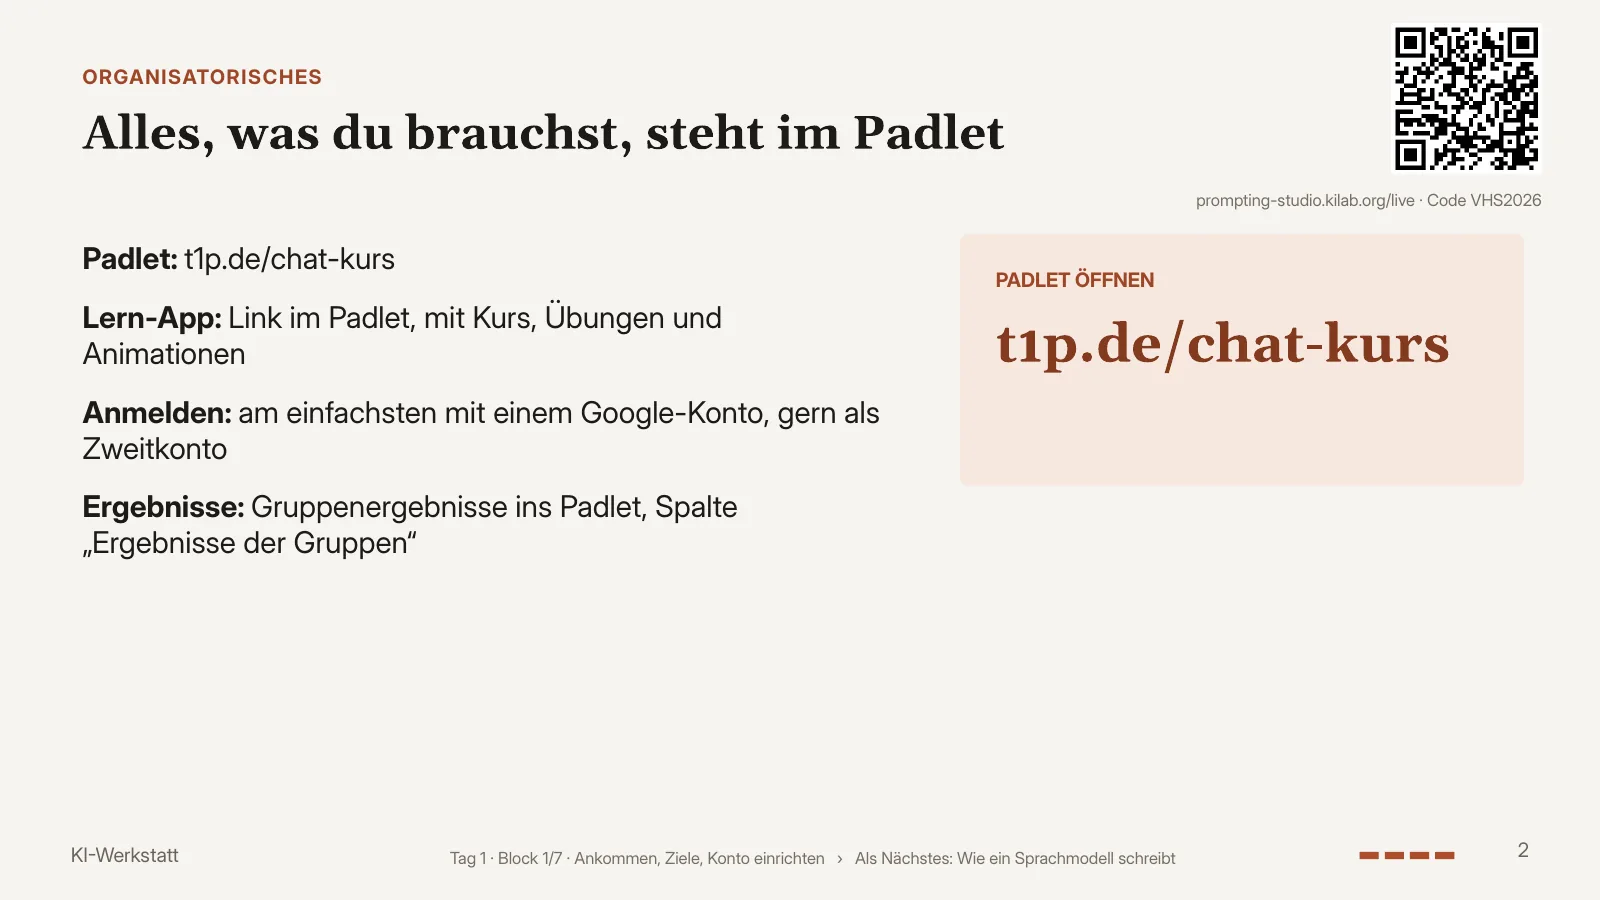
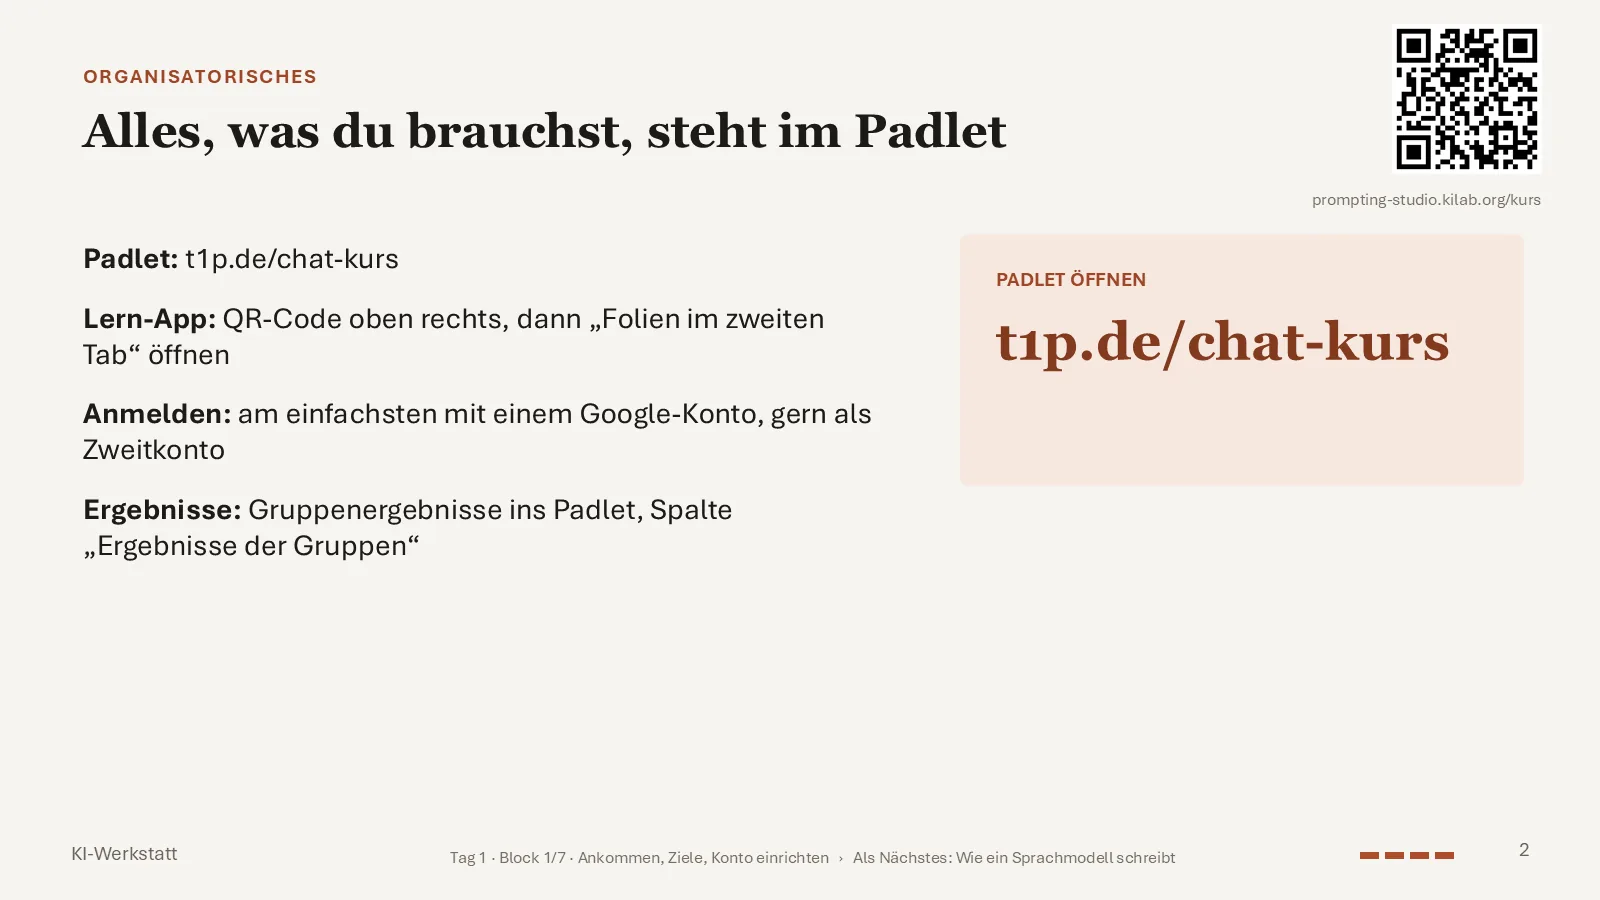
Kurs: Folie 2 ohne Live-Code, QR-Code auf /kurs (Folien v33)
Nach dem Entfernen des Live-Syncs für Teilnehmende zeigte Folie 2 noch
„prompting-studio.kilab.org/live · Code VHS2026“.

- Folie 2: „Lern-App: QR-Code oben rechts, dann „Folien im zweiten Tab“
  öffnen“; QR-Code und Adresse prompting-studio.kilab.org/kurs; Sprechernotiz
  erklärt die zwei Tabs.
- folien.py bauen: Folie mit Link /kurs bekommt die Adresse zum Abtippen statt
  /f/<nr>; Live-Code-Sonderfall entfernt.
- folien.py export: Datenteil als daten_schreiben(), damit einzelne Folien neu
  gerendert werden können.
- Bilder f02-*.webp über PowerPoint gerendert (echte Aptos), folien.json und
  folien-notizen.json auf v33.
- .claude/launch.json: Startkonfiguration des Dev-Servers für die Vorschau.

diff --git a/scripts/folien/folien.py b/scripts/folien/folien.py
@@ -326,19 +326,19 @@ def bauen(args):
     schritte = aufbau_fuer(prs, aufbau)
     basis = args.basis_url.rstrip("/")
     host = basis.split("://", 1)[-1]
-    code = fp["kursCode"]
     for nr, folie in enumerate(prs.slides, 1):
         dunkel = ist_dunkel(folie)
         grau = RGBColor(0xC9, 0xC2, 0xB8) if dunkel else RGBColor(0x76, 0x6E, 0x64)
         if nr > 1:
             textfeld(folie, "Fahrplan", 3.75 * E, 6.9 * E, 6.9 * E, 0.33 * E, fusszeile_text(fp, nr), 10, grau)
         if nr in fp["qr"]:
-            live = fp["links"].get(str(nr)) == "/live"
-            ziel = f"{basis}/live/{code}" if live else f"{basis}/f/{nr}"
+            # Die Kursübersicht (Folie 2) bekommt eine Adresse zum Abtippen, alle anderen den Kurzlink /f/<nr>
+            start = fp["links"].get(str(nr)) == "/kurs"
+            ziel = f"{basis}/kurs" if start else f"{basis}/f/{nr}"
             bild = folie.shapes.add_picture(qr_bild(ziel), Emu(int(11.6 * E)), Emu(int(0.2 * E)), Emu(int(1.25 * E)), Emu(int(1.25 * E)))
             bild.name = EIGEN + "QR"
-            anzeige = f"{host}/live · Code {code}" if live else f"{host}/f/{nr}"
-            textfeld(folie, "QR-Text", 9.35 * E, 1.5 * E, 3.5 * E, 0.25 * E, anzeige, 10 if live else 9, grau, rechts=True)
+            anzeige = f"{host}/kurs" if start else f"{host}/f/{nr}"
+            textfeld(folie, "QR-Text", 9.35 * E, 1.5 * E, 3.5 * E, 0.25 * E, anzeige, 10 if start else 9, grau, rechts=True)
         if nr in schritte and len(schritte[nr]) > 1:
             namen = schrittbalken(folie, len(schritte[nr]), dunkel)
             formen = list(folie.shapes)
@@ -354,7 +354,7 @@ def bauen(args):
     abschnitte_setzen(prs, fp)
     prs.save(args.aus)
     n = sum(len(s) - 1 for s in schritte.values())
-    print(f"gebaut: {args.aus} · {len(prs.slides)} Folien · {len(schritte)} mit Aufbau · {n} Klicks · Code {code}")
+    print(f"gebaut: {args.aus} · {len(prs.slides)} Folien · {len(schritte)} mit Aufbau · {n} Klicks")
 
 
 # ───────────── export ─────────────
@@ -424,7 +424,12 @@ def export(args):
             ganz = soffice_pdf(pptx, tmp)
             shutil.copy(ganz, args.pdf)
             print(f"  PDF: {args.pdf}")
+    daten_schreiben(prs, pptx, anzahl)
+    print(f"export: {sum(anzahl.values())} Bilder in {BILDER.relative_to(ROOT)}, Daten in {FOLIEN_JSON.relative_to(ROOT)}")
 
+
+def daten_schreiben(prs, pptx: Path, anzahl: dict[int, int]):
+    """folien.json (Titel, Überzeile, Schritte, Version) und folien-notizen.json aus der PPTX."""
     folien, notizen = [], {}
     for nr, folie in enumerate(prs.slides, 1):
         ueber = ""
@@ -443,7 +448,6 @@ def export(args):
     FOLIEN_JSON.write_text(json.dumps(daten, ensure_ascii=False, indent=1) + "\n", encoding="utf-8")
     NOTIZEN_JSON.write_text(json.dumps({"_hinweis": daten["_hinweis"], "notizen": notizen}, ensure_ascii=False, indent=1) + "\n",
                             encoding="utf-8")
-    print(f"export: {sum(anzahl.values())} Bilder in {BILDER.relative_to(ROOT)}, Daten in {FOLIEN_JSON.relative_to(ROOT)}")
 
 
 def main():

diff --git a/docs/specs/2026-11-26-kurs-orientierung.md b/docs/specs/2026-11-26-kurs-orientierung.md
@@ -60,9 +60,16 @@ Verifikation: Gate; Abnahme im eingebauten Browser (Kurs-Auftritt per `app-editi
 ## 6. Bewusst draußen
 
 - Präsentieren aus der App und Leitstand bleiben, samt Realtime-Kanälen der Leitung.
-- Folie 2 der PPTX zeigt noch den Live-Code; beim nächsten `folien.py bauen` führt der QR-Code über `/f/2` auf `/kurs` (Link in `fahrplan.json` geändert). Folientext von Hand anpassen.
+- Folie 2 der PPTX: erledigt in Folien v33 (Nachtrag unten).
 - Keine Synchronisation des Fortschritts zwischen Geräten; die Kurs-Position gilt nur im eigenen Browser.
 
 ## 7. Offene Fakten
 
 - Ob jeder Browser den anderen Tab per `focus()` nach vorn holt, hängt vom Browser ab (Chrome: Tab wird umgeleitet, im Test kein neuer Tab). Holt er ihn nicht nach vorn, ist der Inhalt trotzdem dort.
+
+## 8. Nachtrag 26.11.2026: Folie 2 ohne Live-Code (Folien v33)
+
+- Folie 2: „Lern-App: QR-Code oben rechts, dann „Folien im zweiten Tab“ öffnen“ statt Live-Code; QR-Code und Adresse `prompting-studio.kilab.org/kurs` (`folien.py bauen`: Folie mit Link `/kurs` bekommt die Adresse zum Abtippen statt `/f/<nr>`). Sprechernotiz erklärt die zwei Tabs.
+- `folien.py export` schreibt die Daten jetzt über `daten_schreiben()`; so lassen sich einzelne Folien neu rendern.
+- Gerendert auf Windows ohne `pdftoppm` und ohne die Ersatzschrift der bisherigen Bilder: Bilder von Folie 2 (`public/folien/f02-*.webp`) und `Kursfolien_November_2026_v33.pdf` über PowerPoint, also mit der echten Aptos. Die übrigen Folienbilder stammen weiter aus LibreOffice mit Inter als Ersatz für Aptos; der Fließtext von Folie 2 sieht in der App darum etwas anders aus als auf den Nachbarfolien. Beim nächsten vollständigen `export` gleicht sich das wieder an.
+- Abnahme: QR-Code in `f02-3.webp` liest sich als `https://prompting-studio.kilab.org/kurs`; Text von v32 und v33 unterscheidet sich nur auf Folie 2; `validate.py` ohne Fehler; `npm run check` grün.
